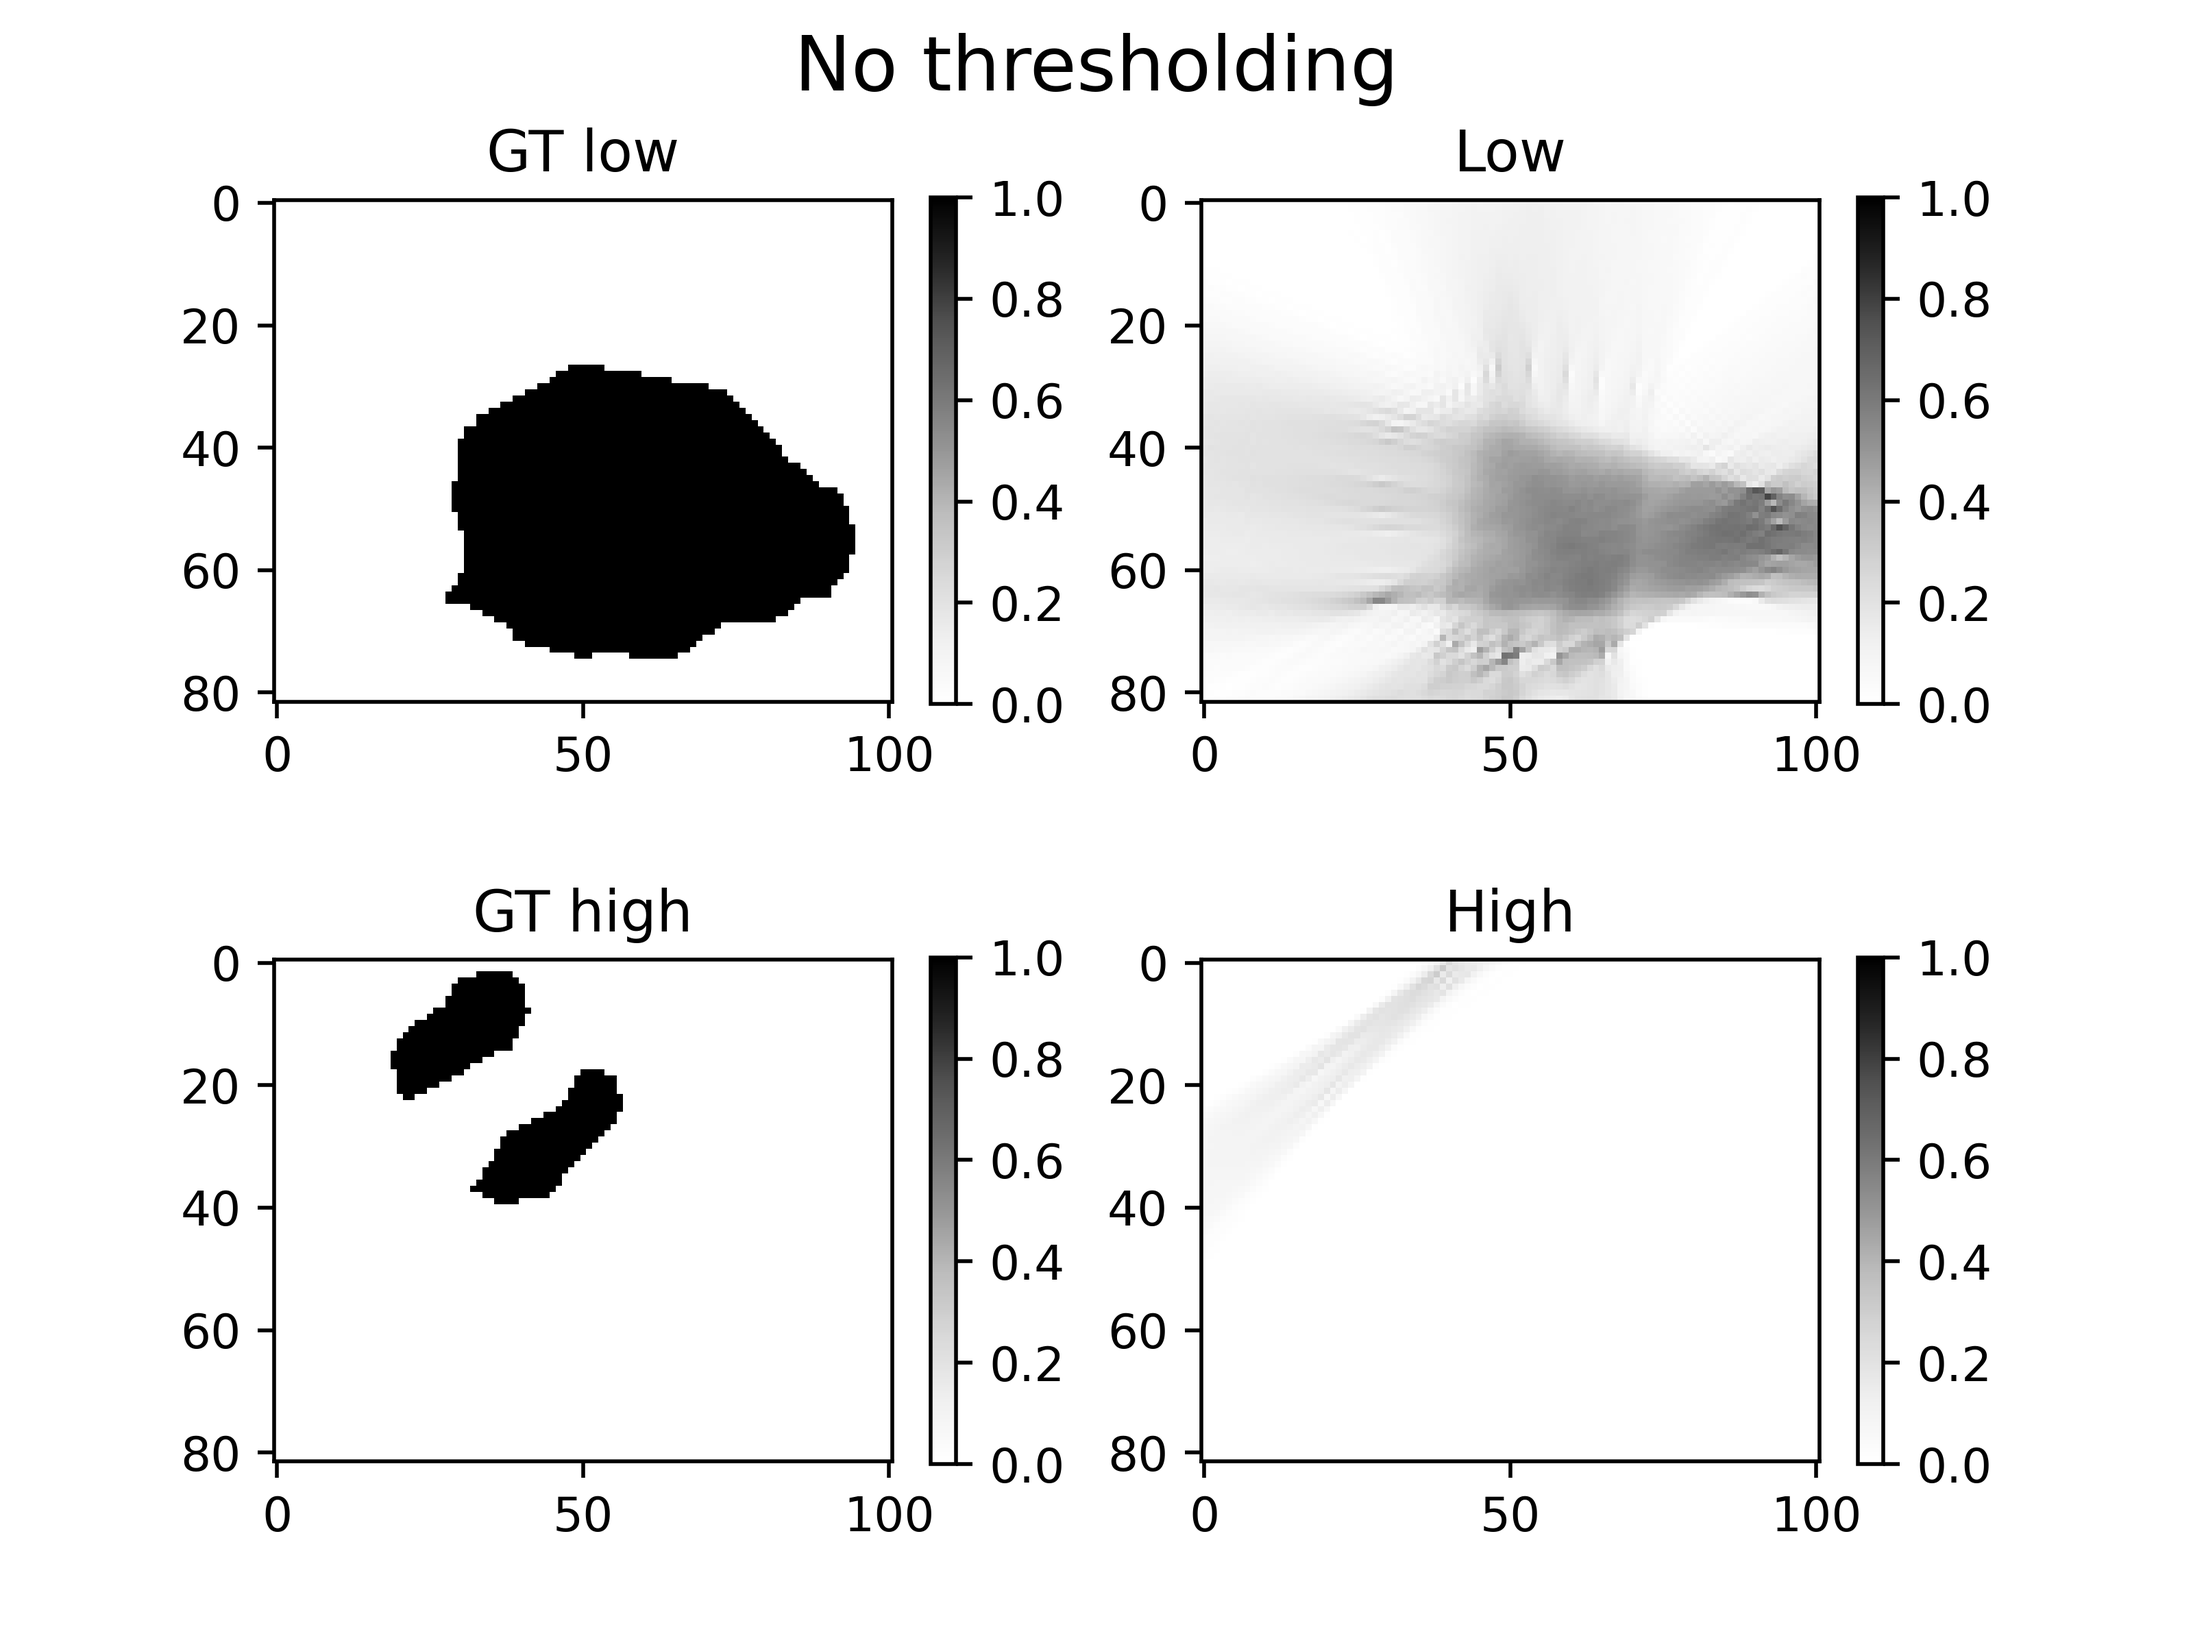
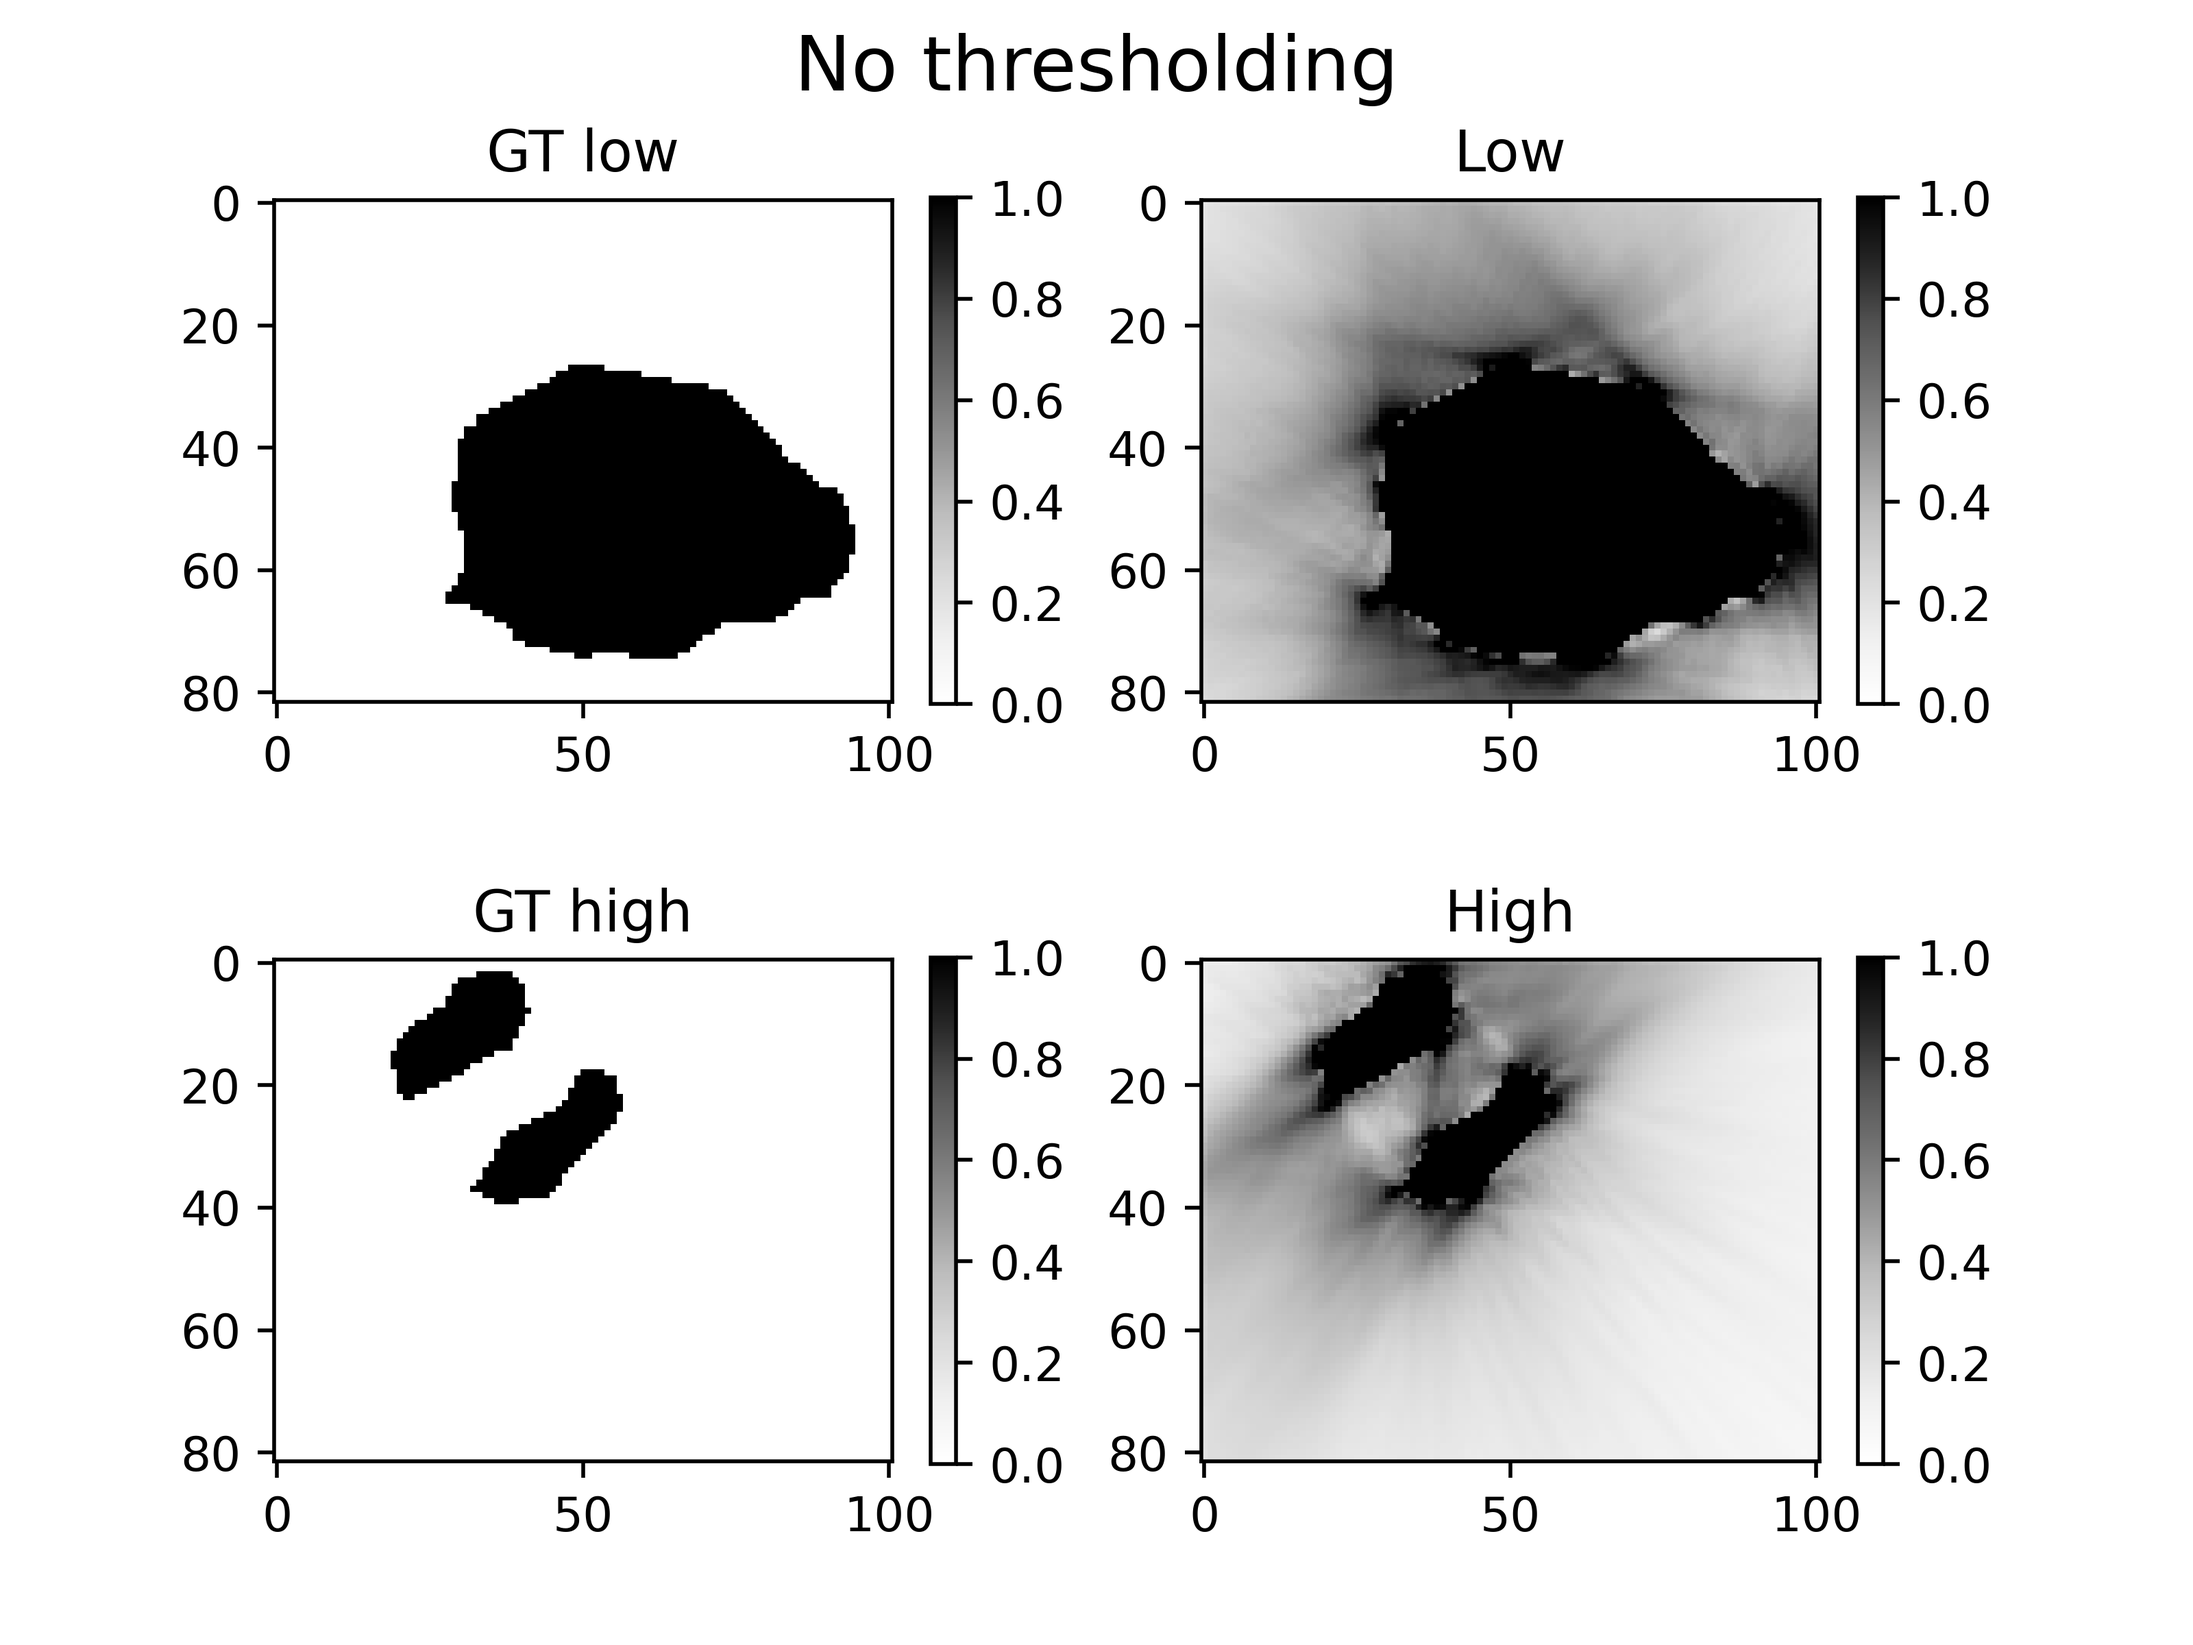
[xray] results

Changed region(s): [[0.5312, 0.125, 0.8438, 0.4375], [0.5312, 0.5625, 0.8125, 0.9062]]

diff --git a/src/pyxu/experimental/xray/2dtests/bunny_lcav_bhatt_inspired/bunny_bhatt_inspired.py b/src/pyxu/experimental/xray/2dtests/bunny_lcav_bhatt_inspired/bunny_bhatt_inspired.py
@@ -1,3 +1,4 @@
+import warnings
 from dataclasses import dataclass
 
 import imageio.v3 as iio
@@ -7,52 +8,47 @@ import skimage
 
 import pyxu.abc as pxa
 import pyxu.info.ptype as pxt
-import pyxu.operator.linop.base as pxlb
 import pyxu.operator.linop.xrt.ray as xray
-import pyxu.runtime as pxrt
-import pyxu.util as pxu
-from pyxu.abc import DiffMap, ProxFunc
-from pyxu.operator import PositiveOrthant, SquaredL2Norm
+from pyxu.abc import ProxFunc
+from pyxu.operator import DiagonalOp, PositiveOrthant, SquaredL2Norm
 from pyxu.opt.solver import PGD
-from pyxu.opt.stop import RelError
+from pyxu.opt.stop import MaxIter, RelError
+
+warnings.filterwarnings("ignore")
+
+num_n = 1000
+num_t = 350
+lambda_ = 0.004
+b_param = 10
+diff_lip = 400000 * b_param / 2
 
 
-class SigLU(pxa.DiffMap):
-    def __init__(self, dim: pxt.Integer):
-        super().__init__(dim_shape=(dim,), codim_shape=(dim,))
-        self.lipschitz = 1 / 4
-        self.diff_lipschitz = 1 / (6 * np.sqrt(3))
+class BhattInspiredLoss(pxa.DiffFunc):
+    def __init__(self, xrt: xray.RayXRT, gt: pxt.NDArray, b: pxt.Real):
+        super().__init__(dim_shape=xrt.codim_shape, codim_shape=(1,))
+        fg_constant = DiagonalOp(gt)
+        bg_constant = DiagonalOp(1 - gt)
 
-    @pxrt.enforce_precision(i="arr")
-    def apply(self, arr: pxt.NDArray) -> pxt.NDArray:
-        xp = pxu.get_array_module(arr)
-        x = -arr
-        xp.exp(x, out=x)
-        x += 1
-        x = 1 / x
-        x[arr < 0] = 0.25 * arr[arr < 0] + 0.5
-        return x
+        self._loss_fg = SquaredL2Norm(dim_shape=xrt.dim_shape).argshift(-gt) * (fg_constant * xrt.T)
+        self._loss_bg = b * SquaredL2Norm(dim_shape=xrt.dim_shape).argshift(-gt) * (bg_constant * xrt.T)
 
-    @pxrt.enforce_precision(i="arr", o=False)
-    def jacobian(self, arr: pxt.NDArray) -> pxt.OpT:
-        x = self.apply(arr)
-        v = x.copy()
-        x -= 1
-        v *= x
-        v[arr < 0] = 0.25
-        return pxlb.DiagonalOp(v)
+    def apply(self, arr):
+        return self._loss_fg.apply(arr) + self._loss_bg.apply(arr)
+
+    def grad(self, arr):
+        return self._loss_fg.grad(arr) + self._loss_bg.grad(arr)
 
 
 @dataclass
 class ReconstructionTechnique:
     ground_truth: pxt.NDArray
-    op: DiffMap
+    op: xray.RayXRT
     regularizer: ProxFunc
     initialisation: pxt.NDArray
     diff_lip: float
 
-    def run(self, stop_crit=RelError(eps=1e-3), post_process_optres=None):
-        data_fidelity = SquaredL2Norm(np.prod(self.ground_truth.shape)).argshift(-self.ground_truth.flatten()) * self.op
+    def run(self, stop_crit=RelError(eps=1e-3) | MaxIter(100), post_process_optres=None):
+        data_fidelity = BhattInspiredLoss(self.op, self.ground_truth, b=b_param)
         pgd = PGD(data_fidelity, self.regularizer)
         pgd.fit(x0=self.initialisation, stop_crit=stop_crit, track_objective=True, tau=1 / self.diff_lip)
         alpha, _ = pgd.stats()
@@ -61,47 +57,7 @@ class ReconstructionTechnique:
         if post_process_optres is not None:
             alpha = post_process_optres(alpha)
 
-        return self.op(alpha).reshape(*self.ground_truth.shape)
-
-
-side = 512
-gamma = 0.3
-beta = 15
-num_n = 1000
-num_t = 350
-lambda_ = 4
-diff_lip = 400
-transmittance_ratio = 0.6  # I_center = trans_ratio * I_0
-
-
-def disk(side=side, radius=side / 4):
-    x, y = np.meshgrid(np.linspace(-side / 2, side / 2, side), np.linspace(-side / 2, side / 2, side))
-    ground_truth = 1 * (x**2 + y**2 <= (radius**2))
-    return ground_truth
-
-
-def ellipsis(side_a, num_a, side_b, num_b):
-    side_a = side_a / 2
-    side_b = side_b / 2
-    x, y = np.meshgrid(np.linspace(-side_a, side_a, num_a), np.linspace(-side_b, side_b, num_b))
-    ground_truth = 1 * ((x / side_a) ** 2 + (y / side_b) ** 2 <= 1)
-    return ground_truth
-
-
-def absorption_coeff(sides, ratio=transmittance_ratio):
-    sides = pitch * sides
-    return -np.log(ratio) * np.sum(sides) / (2 * np.prod(sides))
-
-
-def inverse_absorption_map(sides, ratio=transmittance_ratio):
-    sides = pitch * sides
-    alpha = absorption_coeff(sides, ratio)
-    distance_max = sides[0] / 2
-    points = np.indices(sides.astype(int)).transpose((1, 2, 0)) * pitch
-    dist = np.linalg.norm(points - distance_max, axis=-1)
-    distances = distance_max - dist
-    correction_map = np.exp(alpha * distances)
-    return correction_map
+        return self.op.adjoint(alpha)
 
 
 def bunny_high():
@@ -120,12 +76,11 @@ def bunny_low():
     return 1 * iio.imread("../../3dtests/pngs/bunny_zres_100_reweighted__009.png")
 
 
-ground_truth = bunny_high()  # chirp_signal([side, side], a=20)  # epfl_logo(inverted=True)
+ground_truth = bunny_high()
 
 side = np.array(ground_truth.shape)
-origin = 0
-pitch = np.array([1.0, 1.0])
-w_spec = absorption_coeff(side) * ellipsis(pitch[1] * side[1], side[1], pitch[0] * side[0], side[0])
+origin = 0.0
+pitch = 1.0
 
 angle = np.linspace(0, 2 * np.pi, num_n, endpoint=False)
 t_max = pitch * side / 2  # 10% over ball radius
@@ -134,60 +89,55 @@ t_offset = np.linspace(-t_max[0], t_max[1], num_t, endpoint=True)
 n = np.stack([np.cos(angle), np.sin(angle)], axis=1)
 t = n[:, [1, 0]] * np.r_[-1, 1]  # <n, t> = 0
 
-n_spec = np.broadcast_to(n.reshape(num_n, 1, 2), (num_n, num_t, 2))  # (N_angle, N_offset, 2)
+n_spec = np.broadcast_to(n.reshape(num_n, 1, 2), (num_n, num_t, 2))
 t_spec = t.reshape(num_n, 1, 2) * t_offset.reshape(num_t, 1)
 t_spec += pitch * side / 2
 
-weighted_xrt = xray.XRayTransform.init(
-    arg_shape=ground_truth.shape,
+weighted_xrt = xray.RayXRT(
+    dim_shape=ground_truth.shape,
     origin=origin,
     pitch=pitch,
-    method="ray-trace",
     n_spec=n_spec.reshape(-1, 2),
     t_spec=t_spec.reshape(-1, 2),
-    w_spec=w_spec,
 )
 
-unweighted_xrt = xray.XRayTransform.init(
-    arg_shape=ground_truth.shape,
+unweighted_xrt = xray.RayXRT(
+    dim_shape=ground_truth.shape,
     origin=origin,
     pitch=pitch,
-    method="ray-trace",
     n_spec=n_spec.reshape(-1, 2),
     t_spec=t_spec.reshape(-1, 2),
-    w_spec=None,
 )
-
 
 lcav_low = ReconstructionTechnique(
     ground_truth=bunny_low(),
-    op=weighted_xrt.T,
-    regularizer=PositiveOrthant(weighted_xrt.codim),
-    initialisation=0 * np.random.randn(weighted_xrt.codim),
+    op=unweighted_xrt,
+    regularizer=lambda_ * PositiveOrthant(weighted_xrt.codim_shape),
+    initialisation=np.zeros(weighted_xrt.codim_shape),
     diff_lip=diff_lip,
 )
 
 lcav_high = ReconstructionTechnique(
     ground_truth=bunny_high(),
-    op=weighted_xrt.T,
-    regularizer=PositiveOrthant(weighted_xrt.codim),
-    initialisation=0 * np.random.randn(weighted_xrt.codim),
+    op=unweighted_xrt,
+    regularizer=lambda_ * PositiveOrthant(weighted_xrt.codim_shape),
+    initialisation=np.zeros(weighted_xrt.codim_shape),
     diff_lip=diff_lip,
 )
 
 lcav_middle1 = ReconstructionTechnique(
     ground_truth=bunny_middle1(),
-    op=weighted_xrt.T,
-    regularizer=PositiveOrthant(weighted_xrt.codim),
-    initialisation=0 * np.random.randn(weighted_xrt.codim),
+    op=unweighted_xrt,
+    regularizer=lambda_ * PositiveOrthant(weighted_xrt.codim_shape),
+    initialisation=np.zeros(weighted_xrt.codim_shape),
     diff_lip=diff_lip,
 )
 
 lcav_middle2 = ReconstructionTechnique(
     ground_truth=bunny_middle2(),
-    op=weighted_xrt.T,
-    regularizer=PositiveOrthant(weighted_xrt.codim),
-    initialisation=0 * np.random.randn(weighted_xrt.codim),
+    op=unweighted_xrt,
+    regularizer=lambda_ * PositiveOrthant(weighted_xrt.codim_shape),
+    initialisation=np.zeros(weighted_xrt.codim_shape),
     diff_lip=diff_lip,
 )
 

diff --git a/src/pyxu/experimental/xray/2dtests/bunny_bhatt_method/bunny_bhatt.py b/src/pyxu/experimental/xray/2dtests/bunny_bhatt_method/bunny_bhatt.py
@@ -1,3 +1,4 @@
+import warnings
 from dataclasses import dataclass
 
 import imageio.v3 as iio
@@ -12,11 +13,13 @@ from pyxu.operator import DiagonalOp, PositiveOrthant
 from pyxu.opt.solver import PGD
 from pyxu.opt.stop import MaxIter, RelError
 
+warnings.filterwarnings("ignore")
+
 dh = 0.9
 dl = 0.5
 num_n = 1000
 num_t = 350
-lambda_ = 0.004
+lambda_ = 4
 
 
 class BhattLoss(pxa.DiffFunc):
@@ -31,12 +34,14 @@ class BhattLoss(pxa.DiffFunc):
         bg_posort = PositiveOrthant(dim_shape=xrt.dim_shape).argshift(bg_argshift).argscale(-1).moreau_envelope(mu)
         self._loss_fg = fg_posort * (fg_constant * xrt.T)
         self._loss_bg = bg_posort * (bg_constant * xrt.T)
+        self._reg = lambda_ * PositiveOrthant(weighted_xrt.codim_shape).moreau_envelope(mu)
 
     def apply(self, arr):
-        return self._loss_fg.apply(arr) + self._loss_bg.apply(arr)
+        return self._loss_fg.apply(arr) + self._loss_bg.apply(arr) + self._reg(arr)
+        # TODO naive implem because XRT.adj is applied twice => can be optimized if needed
 
     def grad(self, arr):
-        return self._loss_fg.grad(arr) + self._loss_bg.grad(arr)
+        return self._loss_fg.grad(arr) + self._loss_bg.grad(arr) + self._reg.grad(arr)
 
 
 @dataclass
@@ -48,8 +53,8 @@ class ReconstructionTechnique:
     diff_lip: float
 
     def run(self, stop_crit=RelError(eps=1e-3) | MaxIter(200), post_process_optres=None):
-        data_fidelity = BhattLoss(self.op, self.ground_truth, mu=30)
-        pgd = PGD(data_fidelity, self.regularizer)
+        data_fidelity = BhattLoss(self.op, self.ground_truth, mu=10)
+        pgd = PGD(data_fidelity)  # , self.regularizer)
         pgd.fit(x0=self.initialisation, stop_crit=stop_crit, track_objective=True, tau=1 / self.diff_lip)
         alpha, _ = pgd.stats()
         alpha = alpha["x"]
@@ -57,6 +62,9 @@ class ReconstructionTechnique:
         if post_process_optres is not None:
             alpha = post_process_optres(alpha)
 
+        tmp = len(alpha[alpha > 0]) / len(alpha)
+        print(tmp)
+        alpha = alpha.clip(0, None)
         return self.op.adjoint(alpha)
 
 
@@ -178,8 +186,8 @@ def threshold_processing_2(image):
 
 if __name__ == "__main__":
     lcav_low_img = lcav_low.run()
-    lcav_middle1_img = lcav_middle1.run()
-    lcav_middle2_img = lcav_middle2.run()
+    # lcav_middle1_img = lcav_middle1.run()
+    # lcav_middle2_img = lcav_middle2.run()
     lcav_high_img = lcav_high.run()
 
     plot_four_images(
@@ -205,25 +213,25 @@ if __name__ == "__main__":
         processing=[lambda x: x, threshold_processing_2, lambda x: x, threshold_processing_2],
     )
 
-    plot_four_images(
-        [bunny_middle1(), lcav_middle1_img, bunny_middle2(), lcav_middle2_img],
-        ["GT mid 1", "Mid 1", "GT mid 2", "Mid 2"],
-        "No thresholding",
-        "no_thresholding_part2.png",
-    )
-
-    plot_four_images(
-        [bunny_middle1(), lcav_middle1_img, bunny_middle2(), lcav_middle2_img],
-        ["GT mid 1", "Mid 1", "GT mid 2", "Mid 2"],
-        "With thresholding - 2 colors",
-        "with_thresholding_2_colors_part2.png",
-        processing=[lambda x: x, threshold_processing_1, lambda x: x, threshold_processing_1],
-    )
-
-    plot_four_images(
-        [bunny_middle1(), lcav_middle1_img, bunny_middle2(), lcav_middle2_img],
-        ["GT mid 1", "Mid 1", "GT mid 2", "Mid 2"],
-        "With thresholding - 3 colors",
-        "with_thresholding_3_colors_part2.png",
-        processing=[lambda x: x, threshold_processing_2, lambda x: x, threshold_processing_2],
-    )
+    # plot_four_images(
+    #     [bunny_middle1(), lcav_middle1_img, bunny_middle2(), lcav_middle2_img],
+    #     ["GT mid 1", "Mid 1", "GT mid 2", "Mid 2"],
+    #     "No thresholding",
+    #     "no_thresholding_part2.png",
+    # )
+    #
+    # plot_four_images(
+    #     [bunny_middle1(), lcav_middle1_img, bunny_middle2(), lcav_middle2_img],
+    #     ["GT mid 1", "Mid 1", "GT mid 2", "Mid 2"],
+    #     "With thresholding - 2 colors",
+    #     "with_thresholding_2_colors_part2.png",
+    #     processing=[lambda x: x, threshold_processing_1, lambda x: x, threshold_processing_1],
+    # )
+    #
+    # plot_four_images(
+    #     [bunny_middle1(), lcav_middle1_img, bunny_middle2(), lcav_middle2_img],
+    #     ["GT mid 1", "Mid 1", "GT mid 2", "Mid 2"],
+    #     "With thresholding - 3 colors",
+    #     "with_thresholding_3_colors_part2.png",
+    #     processing=[lambda x: x, threshold_processing_2, lambda x: x, threshold_processing_2],
+    # )
